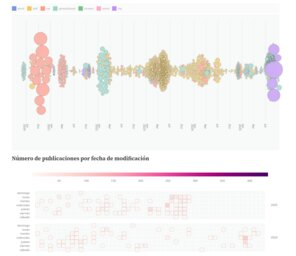
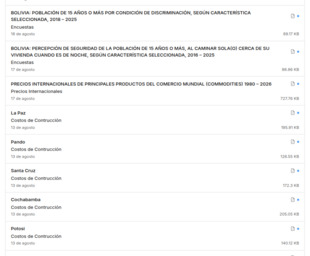
Cambio al enlace al catalogo de documentos INE

diff --git a/src/index.md b/src/index.md
@@ -30,7 +30,7 @@ Monitores para [precios](https://mauforonda.github.io/precios/){#precios}, [el v
 
 ## gobierno
 
-Monitores para [contratos públicos](https://observablehq.com/@mauforonda/convocatorias-publicas-del-gobierno-boliviano){#sicoes}, [datos geográficos](https://mauforonda.github.io/geodatos/){#geodatos} y [publicaciones del Instituto Nacional de Estadística](https://observablehq.com/@mauforonda/documentos-del-ine){#ine}.
+Monitores para [contratos públicos](https://observablehq.com/@mauforonda/convocatorias-publicas-del-gobierno-boliviano){#sicoes}, [datos geográficos](https://mauforonda.github.io/geodatos/){#geodatos} y [publicaciones del Instituto Nacional de Estadística](https://mauforonda.github.io/catalogo-ine/){#ine}.
 
 ## medio ambiente
 
@@ -38,7 +38,7 @@ Gráficas sobre [incendios forestales](https://x.com/mauforonda/status/183505971
 
 :::
 
-... entre muchas otras cosas que comparto en [twitter](https://x.com/mauforonda), [github](https://github.com/mauforonda/) y [observable](https://observablehq.com/@mauforonda).
+... entre muchas otras cosas que comparto en [twitter](https://x.com/mauforonda), [github](https://github.com/mauforonda/), [facebook](https://www.facebook.com/mauforond) y [observable](https://observablehq.com/@mauforonda).
 
 :::
 
@@ -50,7 +50,6 @@ Si llegaste a esta página, tú y yo tenemos probablemente mucho de qué hablar.
 <div class="soil">
   <div class="dots">
     <a title="sonidos en el estudio" target="_blank" href="https://open.spotify.com/user/strangel8p/playlists">.</a>
-    <a title="cosas que encuentro" target="_blank" href="https://raindrop.io/mauforonda/jardin-59670900?theme=auto&sort=-created">.</a>
   </div>
   <div class="drawing sign"></div>
 </div>
